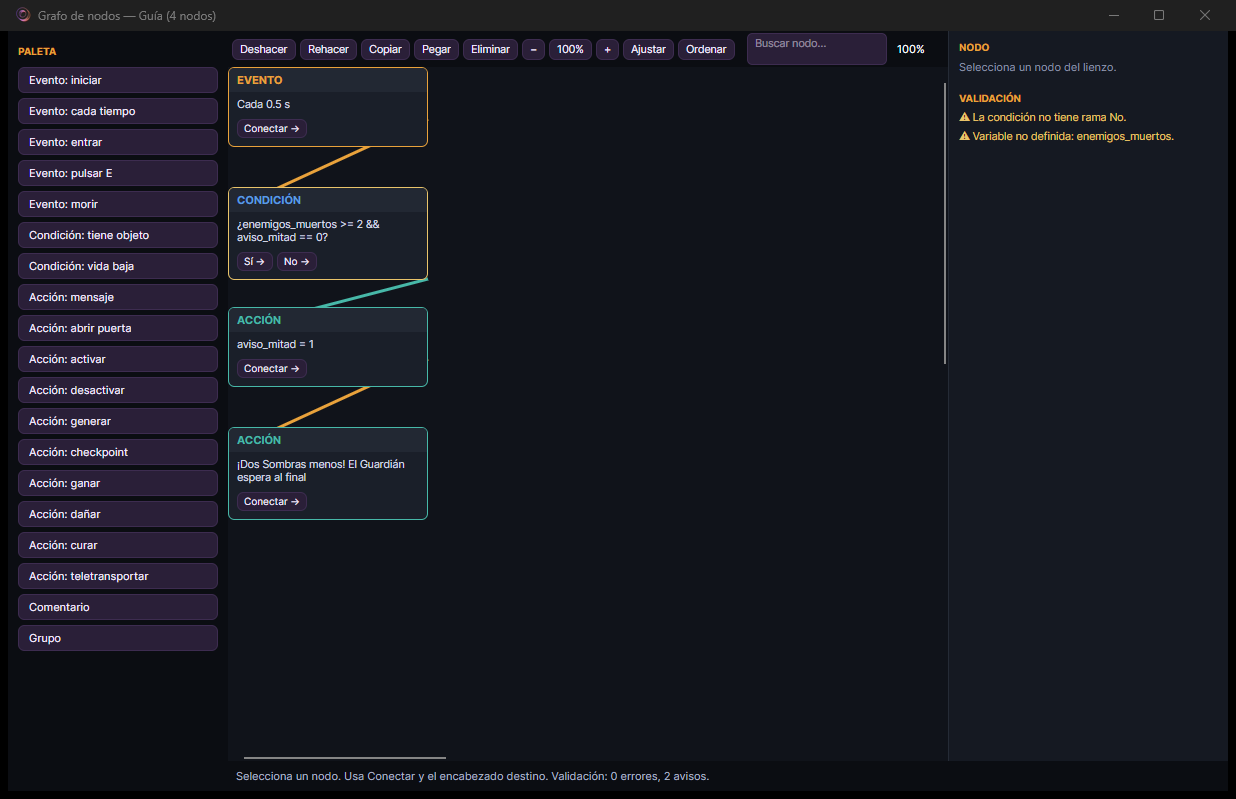
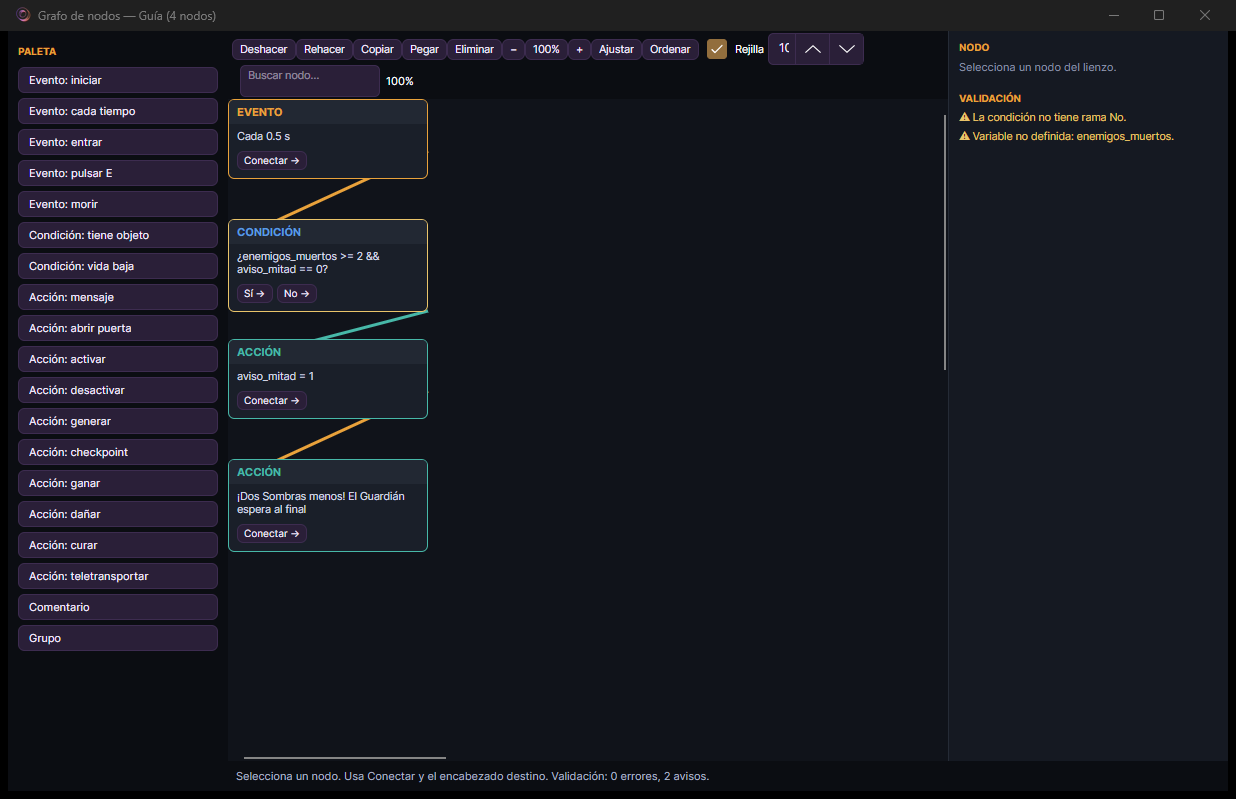
Grafo 0.40: marquee por area, rejilla y borde de error

Changed region(s): [[0.1845, 0.03, 0.7379, 0.6909]]

diff --git a/src/Ollin.Editor/Views/NodeGraphWindow.cs b/src/Ollin.Editor/Views/NodeGraphWindow.cs
@@ -59,6 +59,7 @@ public sealed class NodeGraphWindow : Window
     private HashSet<Guid> _marqueeBase = new();
     private readonly List<Line> _guideLines = new();
     private bool _snapNodes = true;
+    private double _snapSize = 10d;
 
     public NodeGraphWindow(MainViewModel viewModel, Entity entity)
     {
@@ -170,23 +171,15 @@ public sealed class NodeGraphWindow : Window
         _canvas.Width = 2400;
         _canvas.Height = 1600;
         _canvas.Background = new SolidColorBrush(Color.Parse("#10131A"));
-        _canvas.PointerPressed += (_, e) =>
-        {
-            if (ReferenceEquals(e.Source, _canvas))
-            {
-                _selected = null;
-                _selectedIds.Clear();
-                Render();
-                e.Handled = true;
-            }
-        };
+        _canvas.PointerPressed += (_, e) => BeginMarquee(e);
+        _canvas.PointerMoved += (_, e) => UpdateMarquee(e);
+        _canvas.PointerReleased += (_, e) => EndMarquee(e);
         _canvasTransform.Child = _canvas;
         _canvasTransform.LayoutTransform = new ScaleTransform(_zoom, _zoom);
 
-        var toolbar = new StackPanel
+        var toolbar = new WrapPanel
         {
             Orientation = Orientation.Horizontal,
-            Spacing = 4,
             Margin = new Thickness(4, 2),
         };
         toolbar.Children.Add(ToolButton("Deshacer", Undo));
@@ -199,6 +192,12 @@ public sealed class NodeGraphWindow : Window
         toolbar.Children.Add(ToolButton("+", () => ZoomBy(0.1)));
         toolbar.Children.Add(ToolButton("Ajustar", () => SetZoom(0.75)));
         toolbar.Children.Add(ToolButton("Ordenar", AutoLayout));
+        var snapCheck = new CheckBox { Content = "Rejilla", IsChecked = true, FontSize = 10.5, VerticalAlignment = VerticalAlignment.Center, Margin = new Thickness(8, 0, 0, 0) };
+        snapCheck.IsCheckedChanged += (_, _) => _snapNodes = snapCheck.IsChecked == true;
+        toolbar.Children.Add(snapCheck);
+        var snapSize = new NumericUpDown { Value = 10, Minimum = 2, Maximum = 50, Increment = 1, Width = 70, FontSize = 10.5, VerticalAlignment = VerticalAlignment.Center, Margin = new Thickness(4, 0, 0, 0) };
+        snapSize.ValueChanged += (_, _) => { if (snapSize.Value is { } value) _snapSize = (double)value; };
+        toolbar.Children.Add(snapSize);
         _searchBox = new TextBox { Watermark = "Buscar nodo…", Width = 140, FontSize = 10.5, Margin = new Thickness(8, 0, 0, 0) };
         _searchBox.TextChanged += (_, _) =>
         {
@@ -476,9 +475,9 @@ public sealed class NodeGraphWindow : Window
 
         foreach (var copy in copies)
         {
-            copy.Next = copy.Next is { } next ? (map.TryGetValue(next, out var mappedNext) ? mappedNext : next) : null;
-            copy.TrueNext = copy.TrueNext is { } yes ? (map.TryGetValue(yes, out var mappedYes) ? mappedYes : yes) : null;
-            copy.FalseNext = copy.FalseNext is { } no ? (map.TryGetValue(no, out var mappedNo) ? mappedNo : no) : null;
+            copy.Next = copy.Next is { } next ? (map.TryGetValue(next, out var mappedNext) ? mappedNext : (_graph.Find(next) is not null ? next : null)) : null;
+            copy.TrueNext = copy.TrueNext is { } yes ? (map.TryGetValue(yes, out var mappedYes) ? mappedYes : (_graph.Find(yes) is not null ? yes : null)) : null;
+            copy.FalseNext = copy.FalseNext is { } no ? (map.TryGetValue(no, out var mappedNo) ? mappedNo : (_graph.Find(no) is not null ? no : null)) : null;
             _graph.Nodes.Add(copy);
         }
 
@@ -966,9 +965,14 @@ public sealed class NodeGraphWindow : Window
         _selectedIds.Clear();
         foreach (var id in _marqueeBase) _selectedIds.Add(id);
 
+        var selection = new Rect(left, top, Math.Max(1, right - left), Math.Max(1, bottom - top));
+
         foreach (var node in _graph.Nodes)
         {
-            if (node.X >= left && node.X <= right && node.Y >= top && node.Y <= bottom)
+            var size = NodeSize(node);
+            var bounds = new Rect(node.X, node.Y, size.Width, size.Height);
+
+            if (selection.Intersects(bounds))
             {
                 _selectedIds.Add(node.Id);
             }
@@ -987,6 +991,21 @@ public sealed class NodeGraphWindow : Window
         e.Handled = true;
     }
 
+    private (double Width, double Height) NodeSize(GraphNode node)
+    {
+        if (node.Kind == GraphNodeKind.Group)
+        {
+            return (node.GroupWidth, node.GroupHeight);
+        }
+
+        if (_nodeCards.TryGetValue(node.Id, out var card) && card.Bounds.Width > 0 && card.Bounds.Height > 0)
+        {
+            return (card.Bounds.Width, card.Bounds.Height);
+        }
+
+        return (200d, 150d);
+    }
+
     private void DrawGuides()
     {
         ClearGuides();
@@ -996,28 +1015,44 @@ public sealed class NodeGraphWindow : Window
 
         foreach (var node in selected)
         {
+            var size = NodeSize(node);
+
             foreach (var other in others)
             {
-                if (MathF.Abs(node.X - other.X) <= tolerance)
+                var otherSize = NodeSize(other);
+                var xAnchors = new[] { other.X, other.X + (float)otherSize.Width, other.X + (float)otherSize.Width / 2f };
+                var yAnchors = new[] { other.Y, other.Y + (float)otherSize.Height, other.Y + (float)otherSize.Height / 2f };
+                var nodeXAnchors = new[] { node.X, node.X + (float)size.Width, node.X + (float)size.Width / 2f };
+                var nodeYAnchors = new[] { node.Y, node.Y + (float)size.Height, node.Y + (float)size.Height / 2f };
+
+                foreach (var anchor in xAnchors)
                 {
-                    AddGuide(new Line
+                    if (nodeXAnchors.Any(value => MathF.Abs(value - anchor) <= tolerance))
                     {
-                        StartPoint = new Point(other.X, 0),
-                        EndPoint = new Point(other.X, _canvas.Height),
-                        Stroke = new SolidColorBrush(Color.Parse("#E9A23B")),
-                        StrokeThickness = 1,
-                    });
+                        AddGuide(new Line
+                        {
+                            StartPoint = new Point(anchor, 0),
+                            EndPoint = new Point(anchor, _canvas.Height),
+                            Stroke = new SolidColorBrush(Color.Parse("#E9A23B")),
+                            StrokeThickness = 1,
+                        });
+                        break;
+                    }
                 }
 
-                if (MathF.Abs(node.Y - other.Y) <= tolerance)
+                foreach (var anchor in yAnchors)
                 {
-                    AddGuide(new Line
+                    if (nodeYAnchors.Any(value => MathF.Abs(value - anchor) <= tolerance))
                     {
-                        StartPoint = new Point(0, other.Y),
-                        EndPoint = new Point(_canvas.Width, other.Y),
-                        Stroke = new SolidColorBrush(Color.Parse("#E9A23B")),
-                        StrokeThickness = 1,
-                    });
+                        AddGuide(new Line
+                        {
+                            StartPoint = new Point(0, anchor),
+                            EndPoint = new Point(_canvas.Width, anchor),
+                            Stroke = new SolidColorBrush(Color.Parse("#E9A23B")),
+                            StrokeThickness = 1,
+                        });
+                        break;
+                    }
                 }
             }
         }
@@ -1193,12 +1228,34 @@ if (_nodeCards.TryGetValue(id, out var selectedCard))
     private ContextMenu ConnectionMenu(Guid nodeId, string port)
     {
         var menu = new ContextMenu();
+        var node = _graph.Find(nodeId);
+        var targetId = node is null
+            ? null
+            : port switch
+            {
+                "true" => node.TrueNext,
+                "false" => node.FalseNext,
+                _ => node.Next,
+            };
+
+        if (targetId is { } id && _graph.Find(id) is { } target)
+        {
+            var go = new MenuItem { Header = "Ir al destino" };
+            go.Click += (_, _) =>
+            {
+                _selected = target;
+                _selectedIds.Clear();
+                _selectedIds.Add(target.Id);
+                Render();
+            };
+            menu.Items.Add(go);
+        }
+
         var delete = new MenuItem { Header = "Eliminar conexión" };
         delete.Click += (_, _) => ClearConnection(nodeId, port);
         menu.Items.Add(delete);
         return menu;
     }
-
     private void ClearConnection(Guid nodeId, string port)
     {
         if (_graph.Find(nodeId) is not { } node)
@@ -1324,7 +1381,7 @@ if (_nodeCards.TryGetValue(id, out var selectedCard))
             if (node.Condition == GraphConditionKind.Expression)
             {
                 _inspector.Children.Add(Label("Expresión"));
-                _inspector.Children.Add(TextInput(node.Expression, value => { node.Expression = value; MarkChanged(); }));
+                _inspector.Children.Add(ExpressionInput(node.Expression, value => { node.Expression = value; MarkChanged(); }));
                 _inspector.Children.Add(new TextBlock
                 {
                     Text = "Ej: contador >= 3 && tiene(\"llave\")",
@@ -1357,7 +1414,7 @@ if (_nodeCards.TryGetValue(id, out var selectedCard))
                 _inspector.Children.Add(Label("Variable"));
                 _inspector.Children.Add(TextInput(node.VariableName, value => { node.VariableName = value; MarkChanged(); }));
                 _inspector.Children.Add(Label("Expresión / valor"));
-                _inspector.Children.Add(TextInput(node.Expression, value => { node.Expression = value; MarkChanged(); }));
+                _inspector.Children.Add(ExpressionInput(node.Expression, value => { node.Expression = value; MarkChanged(); }));
                 AddExpressionError(node.Expression);
                 _inspector.Children.Add(new TextBlock
                 {
@@ -1452,6 +1509,20 @@ if (_nodeCards.TryGetValue(id, out var selectedCard))
         {
             if (box.Value is { } current) changed((double)current);
         };
+        return box;
+    }
+
+    private static TextBox ExpressionInput(string value, Action<string> changed)
+    {
+        var box = new TextBox { Text = value, FontSize = 11 };
+
+        if (ExpressionEvaluator.Validate(value) is not null)
+        {
+            box.BorderBrush = new SolidColorBrush(Color.Parse("#E05B5B"));
+            box.BorderThickness = new Thickness(2);
+        }
+
+        box.LostFocus += (_, _) => changed(box.Text ?? string.Empty);
         return box;
     }
 

diff --git a/docs/RELEASE-NOTES.md b/docs/RELEASE-NOTES.md
@@ -1,28 +1,29 @@
-## Ollin 0.39.0 beta — marquee, guías y enlaces del grafo
+## Ollin 0.40.0 beta — marquee por área y rejilla configurable
 
 ### Incluye
 
-- **Marquee** para seleccionar varios nodos.
-- El historial restaura la **selección múltiple**.
-- Copiar/pegar conserva **enlaces externos**.
-- **Menú contextual** para eliminar conexiones.
-- **Snap de 10 px** y **guías de alineación**.
-- Errores de expresión **junto al campo**.
+- **Marquee por área completa** de tarjetas y grupos.
+- **Rejilla configurable** de 2 a 50 px.
+- **Guías de borde y centro** al mover nodos.
+- **“Ir al destino”** en el menú contextual de conexiones.
+- **Saneo de enlaces externos** al pegar.
+- **Borde rojo** en expresiones inválidas.
 - **196 pruebas automatizadas**.
 
 ### Cómo probarlo
 
-1. Instala 0.39.0 y abre el demo.
-2. Abre el grafo de **Guía**.
-3. Arrastra un rectángulo sobre el fondo para seleccionar varios nodos.
-4. Mueve el grupo; observa el snap y las guías ámbar.
-5. Ctrl+C / Ctrl+V conserva enlaces internos y externos.
-6. Clic derecho sobre una línea → **Eliminar conexión**.
-7. Escribe una expresión inválida y mira el error bajo el campo.
+1. Instala 0.40.0 y abre el grafo de **Guía**.
+2. Arrastra un rectángulo sobre varias tarjetas completas.
+3. Cambia el tamaño de rejilla y mueve: el snap usa ese valor.
+4. Alinea nodos y observa guías de borde/centro.
+5. Clic derecho en una conexión → **Ir al destino** o eliminar.
+6. Copia un grupo con enlaces externos y pega.
+7. Escribe una expresión inválida: borde rojo y texto.
 
 ### Limitaciones
 
-- El marquee selecciona por la posición del nodo, no por el área completa del grupo.
-- Las guías alinean bordes, no distribuyen espacios.
-- El snap es fijo a 10 px.
-- El menú contextual solo elimina la conexión.
+- El marquee selecciona grupos completos, pero no sus miembros.
+- Las guías no distribuyen espacios automáticamente.
+- No hay “deshabilitar conexión”, solo eliminar.
+- El borde rojo se actualiza al perder el foco, no en cada tecla.
+- Sigue sin paso a paso real.

diff --git a/docs/BETA.md b/docs/BETA.md
@@ -1,4 +1,4 @@
-# Beta 0.39.0 de Ollin
+# Beta 0.40.0 de Ollin
 
 Compilación de prueba para instalar y usar el motor fuera del repositorio. Cierra la
 etapa 5 del roadmap (herramientas de juego 2D).
@@ -30,7 +30,7 @@ etapa 5 del roadmap (herramientas de juego 2D).
 
 ## Instalar
 
-1. Ejecuta `Ollin-Setup-0.39.0-beta.exe`.
+1. Ejecuta `Ollin-Setup-0.40.0-beta.exe`.
 2. Pulsa **Instalar**. Se copia en `%LOCALAPPDATA%\Ollin`.
 3. Se crean accesos directos en el escritorio y en el menú Inicio.
 4. Abre Ollin y elige un proyecto en el lanzador, o crea uno con la plantilla
@@ -85,7 +85,7 @@ dotnet publish tools/Ollin.Setup -c Release -r win-x64 --self-contained false `
 ## Prueba automática del instalador
 
 ```powershell
-$setup = "dist/installer/Ollin-Setup-0.39.0-beta.exe"
+$setup = "dist/installer/Ollin-Setup-0.40.0-beta.exe"
 Start-Process $setup -ArgumentList "--silent" -Wait
 Start-Process "$env:LOCALAPPDATA/Ollin/Desinstalar.exe" -ArgumentList "--uninstall --silent" -Wait
 ```

diff --git a/docs/GUIA.md b/docs/GUIA.md
@@ -833,3 +833,12 @@ error de sintaxis.
 - **Snap de nodos**: rejilla de 10 px, activable con **Rejilla**.
 - **Guías de alineación**: líneas ámbar al alinear bordes con otros nodos.
 - **Errores de expresión junto al campo**, además del panel de validación.
+
+## 37. Grafo: marquee por área y rejilla configurable (0.40)
+
+- **Marquee por área completa**: selecciona si el rectángulo toca la tarjeta o el grupo.
+- **Rejilla configurable**: activa/desactiva y elige el tamaño (2–50 px).
+- **Guías de borde y centro**: izquierda, derecha, centro, superior, inferior.
+- **“Ir al destino”** en el menú contextual de una conexión.
+- **Copiar/pegar sanea enlaces**: si el destino externo ya no existe, se descarta.
+- **Borde rojo** en campos de expresión inválidos, además del texto.

diff --git a/CHANGELOG.md b/CHANGELOG.md
@@ -17,6 +17,18 @@ versionado [SemVer](https://semver.org/lang/es/).
 - Puente 2.5D y 3D.
 - Exportación de un juego a un ejecutable.
 
+## [0.40.0] — 2026-10-31
+
+### Añadido
+
+- Marquee por área completa de tarjeta/grupo.
+- Rejilla configurable (2–50 px) con casilla.
+- Guías de borde y centro.
+- “Ir al destino” en el menú contextual.
+- Saneo de enlaces externos al pegar.
+- Borde rojo en expresiones inválidas.
+- 196 pruebas automatizadas.
+
 ## [0.39.0] — 2026-10-31
 
 ### Añadido
